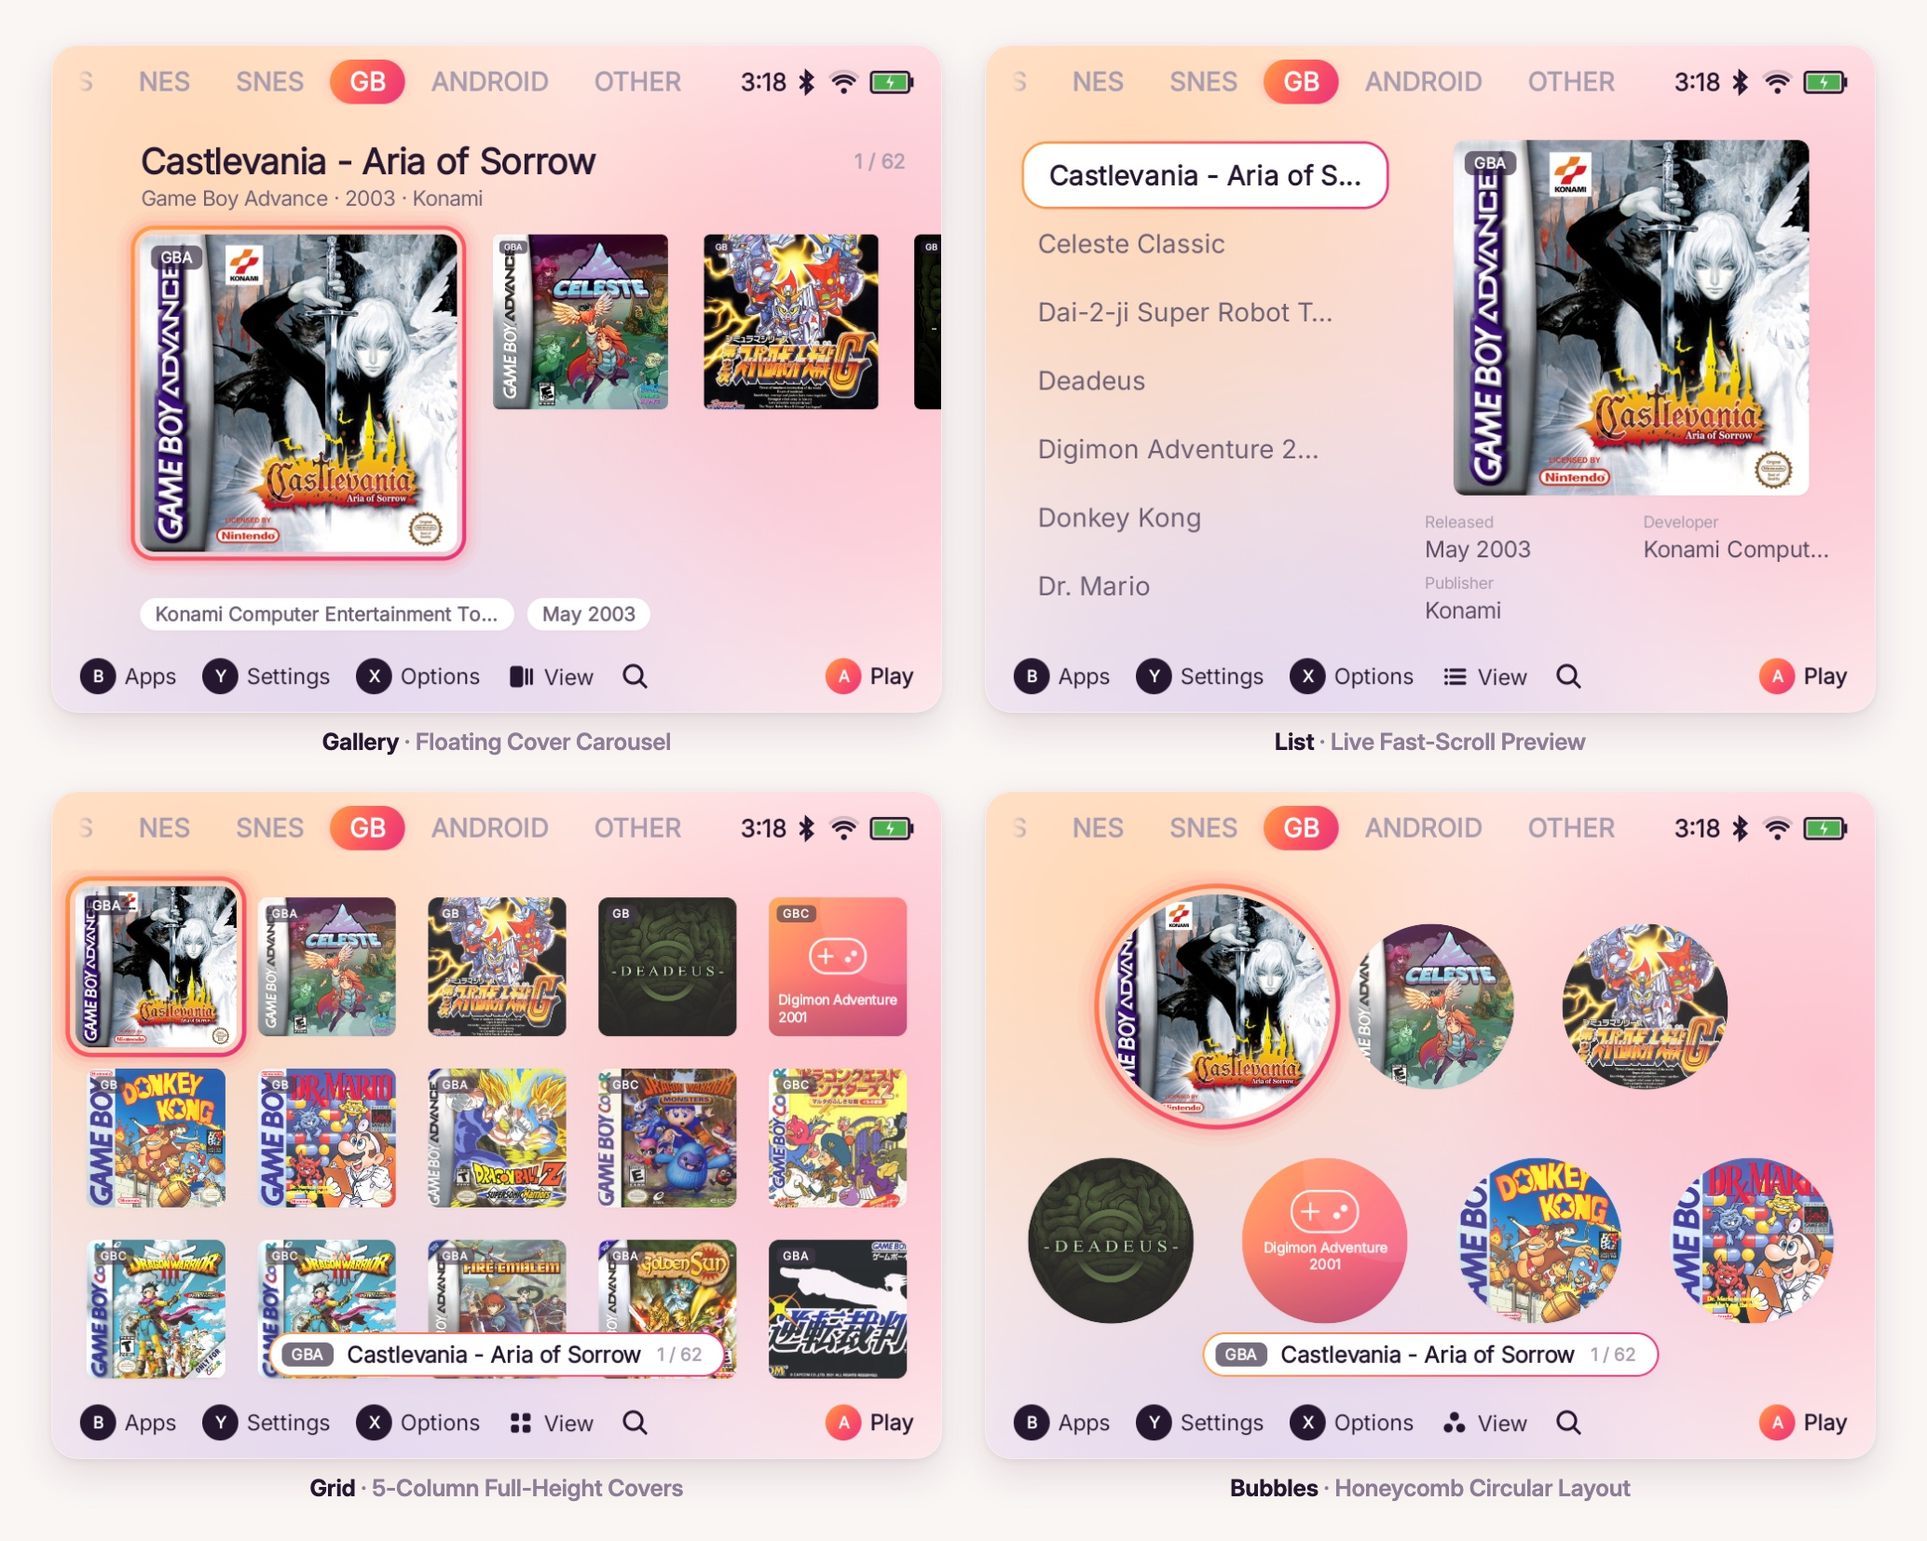
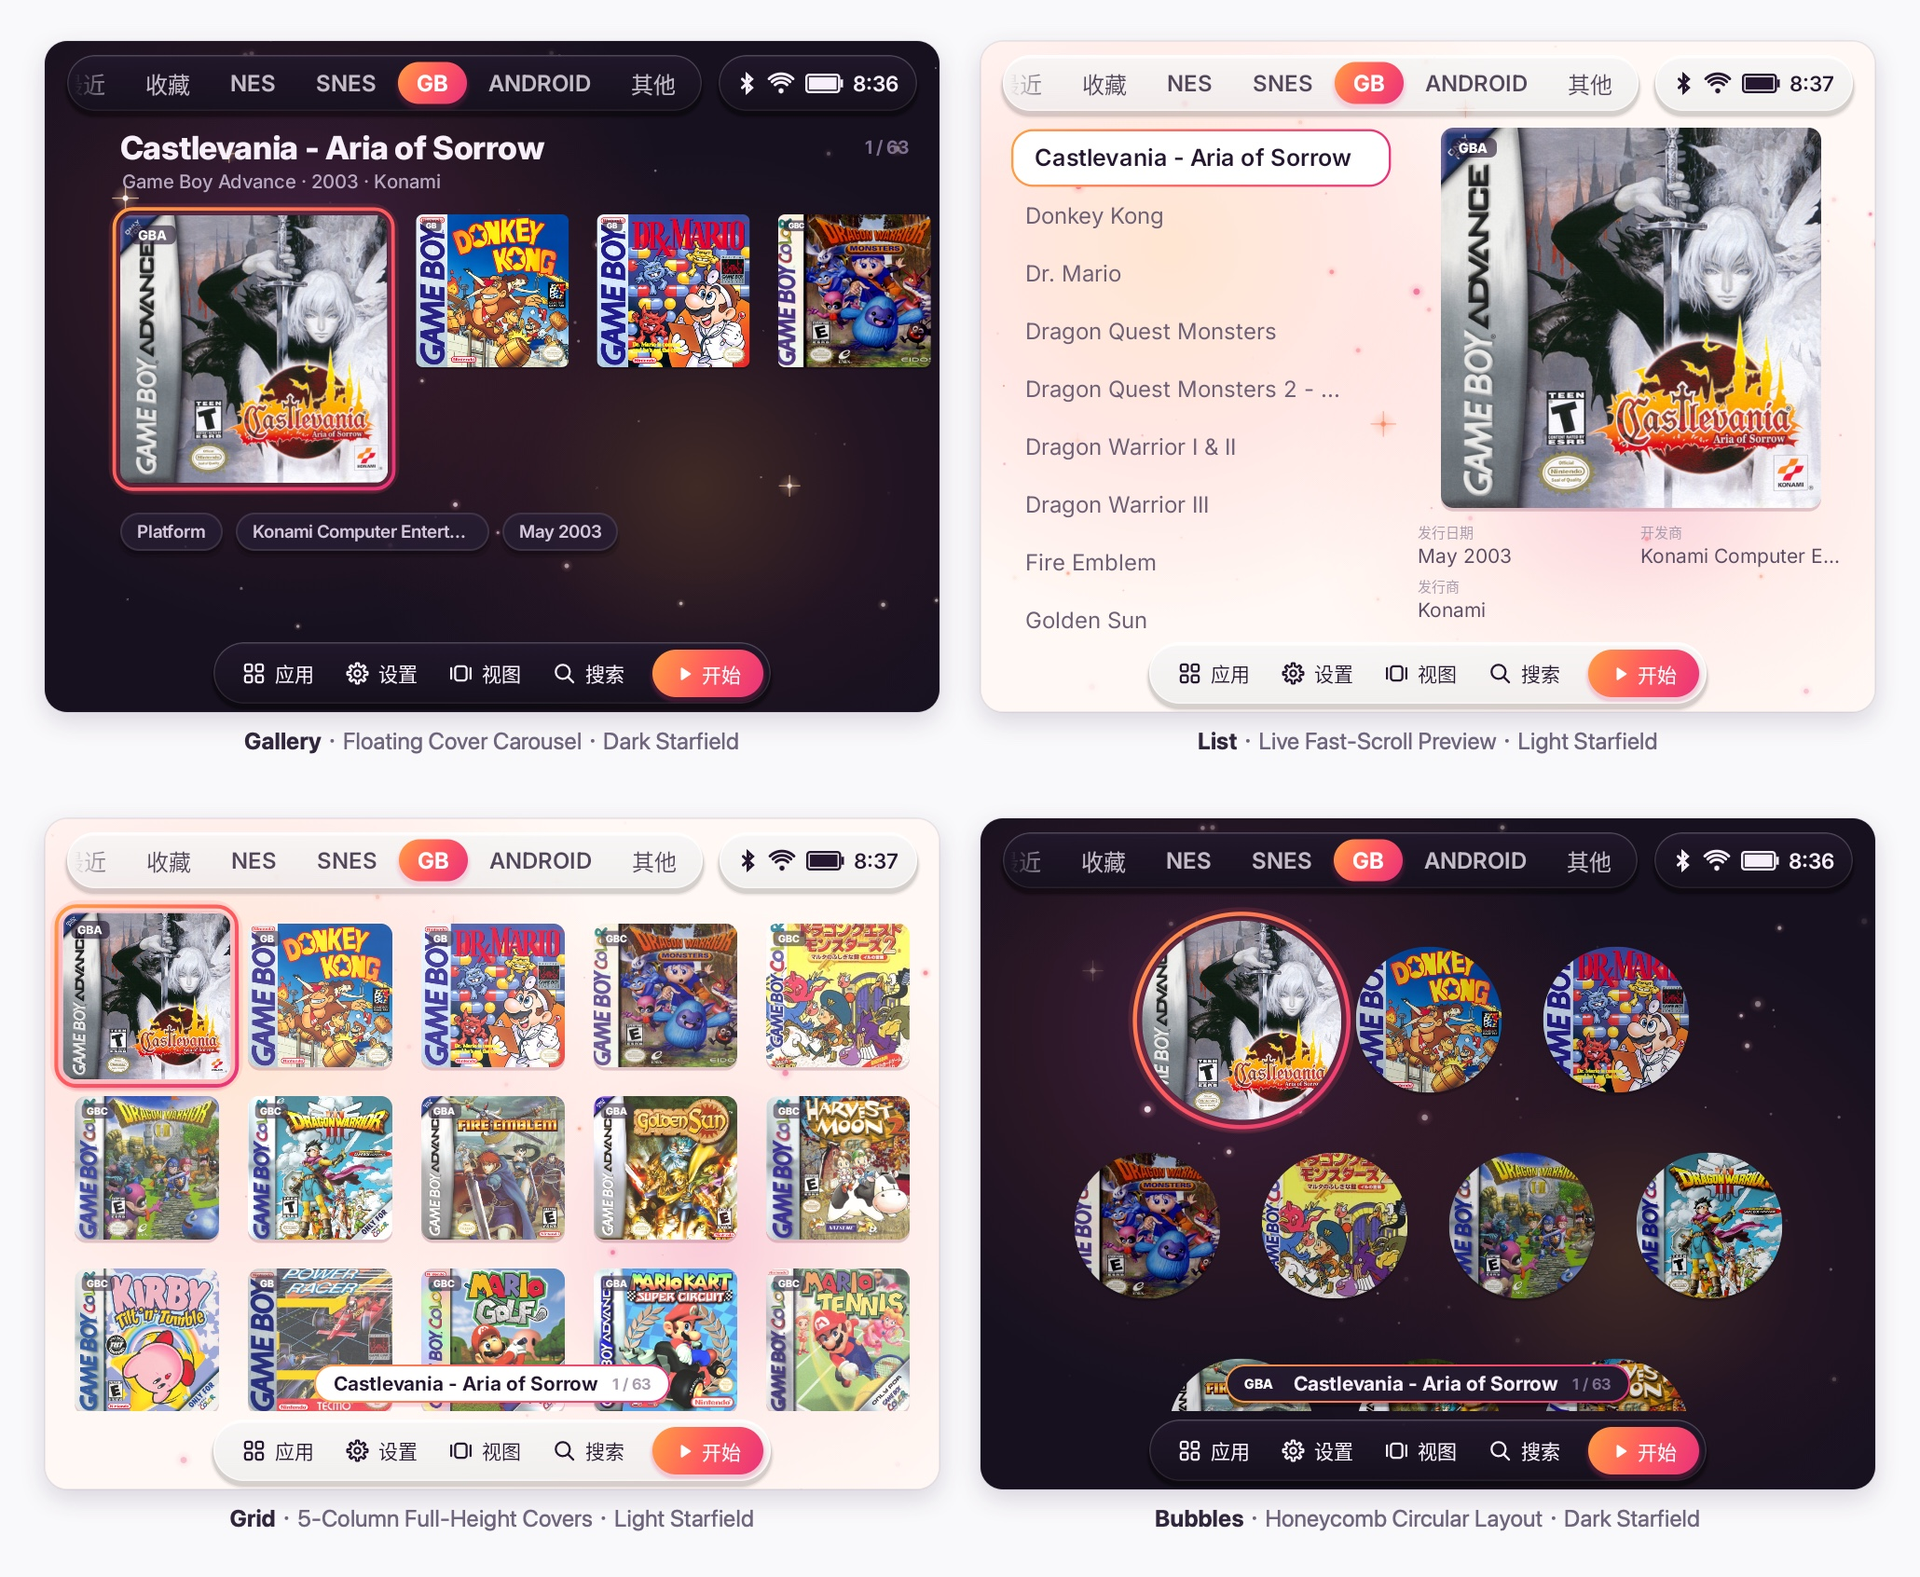
docs(readme): 更新 v0.6.9 暗/浅融合星海漫游+悬浮磨砂岛实机截图与特性说明

diff --git a/README_ZH.md b/README_ZH.md
@@ -23,7 +23,7 @@
 
 ## ✨ 产品亮点
 
-PocketDeck 基于 **Jetpack Compose** 原生打造，零重型反射框架、自定义 `graphicsLayer` + `drawWithCache` 零 GC 动画管线，内置二进制磁盘索引秒开与首标签优先渐进扫描架构，全端统一扁平发丝线与纤细矢量图标语言，带来万级 ROM 库毫秒冷启动、丝滑 60+ fps 滚动体验，以及仅约 2.8 MB 的轻量发布包体积。
+PocketDeck 基于 **Jetpack Compose** 原生打造，零重型反射框架、自定义 `graphicsLayer` + `drawWithCache` 零 GC 动画管线，内置 39.8 万条 Libretro 离线元数据与中文别名索引库、SQLite 冷启动零加载快路径，以及全端统一的扁平发丝线与纤细矢量图标语言，带来万级 ROM 库毫秒冷启动、丝滑 60+ fps 滚动体验，以及仅约 11 MB 的独立轻量发布包体积。
 
 ### 🖼 八大视图模式 —— 榨干每一寸小屏视野
 
@@ -53,7 +53,7 @@ PocketDeck 基于 **Jetpack Compose** 原生打造，零重型反射框架、自
 只需在同一局域网下打开浏览器访问掌机地址（`http://<掌机IP>:8686`），输入掌机屏幕上的 **4 位动态密码**（内置防暴力猜测锁定与会话踢出），即可获得完整的桌面端管理控制台：
 
 - **Sunset Arcade 设计与实时主题同步**：磨砂侧边栏、设备与存储进度卡片、平台胶囊筛选、居中详情弹窗与品牌渐变占位封面，并**实时跟随掌机当前的浅色 / 深色模式与 8 套双色渐变主题**动态切换。
-- **封面与元数据 100% 源自掌机本身**：网页端展示的所有游戏封面与元数据均由掌机直接提供或由掌机本地缓存回传（浏览器绝不直连任何外网域名）；需要更新时可从网页端一键触发掌机联网刮削、查看实时悬浮刮削日志，或直接从电脑上传自定义封面。
+- **封面与元数据 100% 源自掌机 + 实时 SSE 刮削任务栏**：网页端展示的所有游戏封面与元数据均由掌机直接提供或由掌机本地缓存回传（浏览器绝不直连外网域名）；支持从网页端一键触发全库/单款刮削、通过底部悬浮 SSE 任务栏实时查看进度与终止任务、查阅刮削日志，或直接从电脑上传自定义封面。
 - **网页端标签分类管理（带严格安全校验）**：在网页端直接**拖拽排序**、新建与编辑自定义分类、`NOW / FAVS / OTHER` 系统标签别名及排序规则、设置显隐；保存同步至掌机时，掌机端会对结构与引用完整性做严格校验并实时刷新界面。
 - **全能 Web 文件库系统**：支持面包屑导航、磁盘剩余空间统计、按名称/大小/时间/类型排序与过滤、**多选批量移动 / 复制 / 打包 ZIP / 删除**、**整个文件夹拖放或选择上传（`webkitdirectory`）**、压缩包内容预览与解压（ZIP / 7Z / RAR / TAR）、图片/音频在线预览以及配置文件在线编辑。
 
@@ -71,16 +71,15 @@ PocketDeck 基于 **Jetpack Compose** 原生打造，零重型反射框架、自
 ### 🎨 高度可定制、极致性能与强大兼容性
 
 <div align="center">
-  <img src="docs/images/v040-ui-showcase.jpg" alt="PocketDeck v0.4.0 设置页重构、双层启动器、纤细图标与扁平局域网界面" width="90%"/>
+  <img src="docs/images/v040-ui-showcase.jpg" alt="PocketDeck 游戏详情海报、星海漫游外观、服务连通性测试与批量刮削任务弹窗" width="90%"/>
 </div>
 
-- **8 套双色渐变主题 & 7 种背景动效**：内置 `日落`、`莓果`、`海洋`、`薄荷`、`柠檬`、`樱花`、`葡萄`、`石墨` 渐变主题；背景支持 `Sunset Flow`（日落流光）、`Pixel Drift`（像素漂浮）、`Retro Grid`（复古网格）、`Cover Glow`（封面氛围光）、`Aurora`（极光）、`Image`（自定义图片）及纯色，支持实时缩略图选择与「减少动态效果」开关。
-- **统一游戏品牌图标 & 7 分区设置**：应用图标、游戏库、游戏快传三枚图标统一为日落珊瑚游戏家族视觉；全套 Lucide 线性矢量图标；设置页重构为 `外观 · 主页 · 游戏库 · 封面与信息 · 模拟器 · 操控 · 系统` 7 大分组，支持 `L1/R1` 快捷切换与分组白卡布局。
+- **8 套双色渐变主题、8 种背景动效 & 悬浮磨砂岛导航栏**：内置 `日落`、`莓果`、`海洋`、`薄荷`、`柠檬`、`樱花`、`葡萄`、`石墨` 渐变主题；背景默认采用 **星海漫游（Starfield）**（视差星场 + 星云 + 流星），并提供 `日落流光`、`像素漂浮`、`复古网格`、`封面氛围光`、`极光`、`自定义图片` 及纯色；导航栏默认采用 **悬浮磨砂岛**（可选 **经典通透**），完整支持浅色 / 深色 / 跟随系统及「减少动态效果」开关。
+- **全出血游戏详情海报 & 统一弹窗体验**：双栏全出血封面详情弹窗集成游玩次数/时长统计、一键换封面与属性面板；全 App 弹窗统一规范宽度并内置平滑软键盘避让动画，手动搜索刮削支持常驻提示词与 3 级手柄焦点流。
+- **离线优先刮削、批量任务预览 & 服务连通性测试**：内置 Libretro 离线库与中文别名词库，已刮削游戏冷启动直接从 SQLite 恢复跳过离线库解析；**批量刮削任务**弹窗支持先查看待刮削 / 缺封面 / 缺信息明细再确认开始，终止时立即锁定防连点并支持直达日志；新增 **服务连通性测试** 一键并发探测 11 项外部服务可达性与延迟，配合 `HostCircuitBreaker` 域名熔断与 Wi-Fi / 移动网络离线检测。
 - **自定义字体 & 双音调按键音效**：支持导入 `.ttf / .otf / .ttc` 字体；精简为单一「按键音效」开关，切换分类默认触发**机械青轴**，其余导航与点按统一触发**清脆触点**。
-- **海量游戏冷启动与多分类缓存**：内置二进制磁盘索引快照实现毫秒冷启动，首次无缓存时优先扫完首个可见分类立刻上屏，活跃分类排序列表采用有界 LRU 缓存控制峰值内存。
-- **多源封面与元数据刮削 + 实时日志**：支持拖拽排序 **Libretro Thumbnails / DB**、**Hasheous（CRC32）**、**ArcadeItalia**、**Wikidata**、**ScreenScraper.fr**、**TheGamesDB** 与 **IGDB**，内置可搜索、可导出的刮削请求日志。
 - **50+ 独立模拟器 & RetroArch 核心支持**：内置支持 RetroArch（自动或指定核心）、PPSSPP、DuckStation、DraStic、melonDS、Dolphin、AetherSX2 / NetherSX2、Citra / Azahar、Yuzu / Eden / Citron、Cemu、Vita3K、Flycast、mGBA、Winlator、RPCSX 及任意自定义 Android 应用启动协议。
-- **完整手柄操作体验**：60fps 十字键/摇杆极速滚动优化、`L1/R1` 切换标签、`Swap ABXY`（任天堂 ↔ Xbox 布局）、全快捷键自定义与冲突检测、以及作为系统桌面（Home Launcher）使用。
+- **完整手柄操作体验**：60fps 十字键/摇杆极速滚动优化、`L1/R1` 切换标签、`A` 打开详情 / `START` 直接启动 / `X` 收藏 / `SELECT` 应用 / `B` 返回、`Swap ABXY`（任天堂 ↔ Xbox 布局）、全快捷键自定义与冲突检测、以及作为系统桌面（Home Launcher）使用。
 
 ---
 
@@ -115,7 +114,7 @@ PocketDeck 支持 **Android 8.0（API 26）至 Android 16（API 36）**，并针
 
 ### 3. 快传与 Web 管理后台使用
 
-1. 在主页按 **`B` 键** 打开「应用」→ 进入 **游戏快传 / 局域网服务**（或在游戏库顶部点击局域网按钮）。
+1. 在主页按 **`SELECT` 键** 打开「应用」→ 进入 **游戏快传 / 局域网服务**（或在游戏库顶部点击局域网按钮）。
 2. 选择物理局域网网卡（如 `Wi-Fi (wlan0)`）。
 3. 开启 **游戏快传**：可扫描同网段其他 PocketDeck 设备及开启了接收的 **LocalSend** 设备（可在下方开关控制 LocalSend 协议兼容）。
 4. 开启 **Web 游戏管理**：在电脑/平板浏览器打开显示的 `http://<IP>:8686`，输入屏幕上的 4 位动态密码即可进入后台。

diff --git a/README.md b/README.md
@@ -23,7 +23,7 @@
 
 ## ✨ Why PocketDeck?
 
-PocketDeck is crafted from the ground up with **Jetpack Compose**, zero heavy DI frameworks, custom `graphicsLayer` + `drawWithCache` zero-GC animations, binary disk index caching with first-tab-first progressive scanning, and a flat minimalist design language—delivering instant cold starts even on 10,000+ ROM libraries, silky 60+ fps scrolling, full controller navigation, and a tiny ~2.8 MB release APK.
+PocketDeck is crafted from the ground up with **Jetpack Compose**, zero heavy DI frameworks, custom `graphicsLayer` + `drawWithCache` zero-GC animations, a bundled 398,000+ entry offline Libretro metadata & CJK alias database, SQLite cold-start fast-path caching, and a flat minimalist design language—delivering instant cold starts even on 10,000+ ROM libraries, silky 60+ fps scrolling, full controller navigation, and a compact ~11 MB self-contained release APK.
 
 ### 🖼 Eight View Modes — Maximized for Small Handheld Screens
 
@@ -53,7 +53,7 @@ PocketDeck is crafted from the ground up with **Jetpack Compose**, zero heavy DI
 Turn any PC, Mac, or tablet browser on your LAN into a full **Web Game Library Console** (`http://<handheld-ip>:8686`) secured with a dynamic 4-digit PIN and brute-force rate limiting:
 
 - **Sunset Arcade UI & Live Theme Sync**: Frosted sidebar, bottom device & storage card, pill filter chips, centered detail modal, and brand-gradient placeholders that automatically mirror your handheld's **Light / Dark mode** and **8 Dual-Tone Gradient Themes** in real time.
-- **100% Handheld-Served Covers & Metadata**: Displays box art and full metadata served directly from the handheld (the browser never connects to external internet domains). Need an update? Trigger scraping on the handheld right from the browser modal, watch live floating scrape logs, or upload custom cover art.
+- **100% Handheld-Served Covers, Metadata & Live SSE Scrape Bar**: Displays box art and full metadata served directly from the handheld (the browser never connects to external internet domains). Trigger batch or per-game scraping right from the browser, monitor live progress via a unified floating SSE scrape task bar, inspect scraping logs, or upload custom cover art.
 - **Visual Tag & Category Editor**: Drag-and-drop reordering, editing `NOW / FAVS / OTHER` aliases & sort orders, binding platforms to custom categories, and syncing directly to the handheld with strict server-side schema & bounds validation.
 - **Complete File & Archive Manager**: Clickable breadcrumbs, multi-select batch Move / Copy / Delete / Compress to ZIP, folder drag-and-drop upload (`webkitdirectory`), archive inspection & extraction (ZIP / 7Z / RAR / TAR), image/audio previews, and inline text/config editing.
 
@@ -71,16 +71,15 @@ Turn any PC, Mac, or tablet browser on your LAN into a full **Web Game Library C
 ### 🎨 Personalization, Scraping, Performance & Emulators
 
 <div align="center">
-  <img src="docs/images/v040-ui-showcase.jpg" alt="PocketDeck v0.4.0 Redesigned Settings, Launcher, Icons & Flat LAN UI" width="90%"/>
+  <img src="docs/images/v040-ui-showcase.jpg" alt="PocketDeck Game Detail, Starfield Look, Service Connectivity Test & Batch Scraping Task" width="90%"/>
 </div>
 
-- **8 Dual-Tone Gradient Themes & 7 Backgrounds**: Curated Sunset Arcade gradient themes (`Sunset`, `Berry`, `Ocean`, `Mint`, `Lemon`, `Sakura`, `Grape`, `Graphite`), paired with live-previewed `Sunset Flow`, `Pixel Drift`, `Retro Grid`, `Cover Glow`, `Aurora`, `Custom Image`, and `Solid` backgrounds in full Light / Dark / Auto mode, plus a `Reduce motion` toggle.
-- **Unified Gaming Icons & 7-Section Settings**: Matching sunset-coral brand icons across the App Launcher, Game Library, and Quick Share; full Lucide-style vector icon set; L1/R1 section switching across `Look · Home · Library · Covers · Emulators · Controls · System`; grouped white cards; and inline visual pickers.
+- **8 Dual-Tone Gradient Themes, 8 Backgrounds & Floating Glass Dock**: Curated Sunset Arcade gradient themes (`Sunset`, `Berry`, `Ocean`, `Mint`, `Lemon`, `Sakura`, `Grape`, `Graphite`), paired with **Starfield** (default parallax starfield + nebulae + shooting stars), `Sunset Flow`, `Pixel Drift`, `Retro Grid`, `Cover Glow`, `Aurora`, `Custom Image`, and `Solid` backgrounds in Light / Dark / Auto mode, plus the default **Floating Glass Dock** (or **Classic Transparent**) navigation bar style and a `Reduce motion` toggle.
+- **Full-Bleed Game Detail & Unified Dialog System**: Split-card full-bleed box art detail view with playtime stats, quick cover switcher, and properties sheet; all dialogs follow standardized responsive widths with smooth animated soft-keyboard avoidance.
+- **Offline-First Scraping, Batch Task Preview & Connectivity Diagnostics**: Bundled Libretro offline database + CJK alias matching with SQLite cold-start skip for already-scraped games; **Batch Scraping Task** dialog previews exact missing cover/metadata counts before starting with instant cancel lock and one-tap log inspection; built-in **Service Connectivity Test** checks live reachability & latency across all 11 external endpoints, backed by `HostCircuitBreaker` domain circuit-breaking and automatic Wi-Fi / cellular offline guards.
 - **Custom Fonts & Tactile Dual-Tone Key Sounds**: Import `.ttf / .otf / .ttc` fonts and enjoy a single Key Sound toggle with **Mechanical Switch** audio on category switches and **Crisp Tick** on navigation/taps.
-- **Massive-Library Cold-Start Architecture**: Binary disk index cache (`Stale-While-Revalidate`) for near-instant cold boots, first-tab-first progressive ROM scanning on uncached drives, and bounded LRU tab caching for 30+ categories.
-- **Multi-Source Cover & Metadata Scraping + Live Logs**: Drag-to-reorder priority across **Libretro Thumbnails / DB**, **Hasheous (CRC32)**, **ArcadeItalia**, **Wikidata**, **ScreenScraper.fr**, **TheGamesDB**, and **IGDB**, with built-in searchable & exportable scraping logs.
 - **50+ Emulators & Custom Launchers**: Built-in support for **RetroArch** (auto or custom core), **PPSSPP**, **DuckStation**, **DraStic**, **melonDS**, **Dolphin**, **AetherSX2 / NetherSX2**, **Citra / Azahar**, **Yuzu / Eden / Citron**, **Cemu**, **Vita3K**, **Flycast**, **mGBA**, **Winlator**, **RPCSX**, and custom Android app intent presets.
-- **Full Gamepad Control**: 60fps D-Pad fast-scroll navigation, `L1/R1` tab switching, `Swap ABXY` (Nintendo ↔ Xbox), custom key remapping with conflict resolution, and Home Launcher (`HOME`) integration.
+- **Full Gamepad Control**: 60fps D-Pad fast-scroll navigation, `L1/R1` tab switching, `A` detail / `START` direct launch / `X` favorite / `SELECT` Apps / `B` back, `Swap ABXY` (Nintendo ↔ Xbox), custom key remapping with conflict resolution, and Home Launcher (`HOME`) integration.
 
 ---
 
@@ -115,7 +114,7 @@ PocketDeck targets **Android 8.0 (API 26)** up to **Android 16 (API 36)** with f
 
 ### 3. Quick Share & Web Manager Usage
 
-1. Press **`B`** (Apps) → **LAN Server / Quick Share**, or open **Game Library → LAN**.
+1. Press **`SELECT`** (Apps) → **LAN Server / Quick Share**, or open **Game Library → LAN**.
 2. Choose your physical network interface (e.g. `Wi-Fi (wlan0)`).
 3. Toggle **Quick Game Share** to discover nearby PocketDeck handhelds and **LocalSend** devices on the same LAN.
 4. Toggle **Web Game Manager**, open the displayed `http://<IP>:<Port>` URL in your PC/Mac browser, and enter the 4-digit dynamic PIN.
